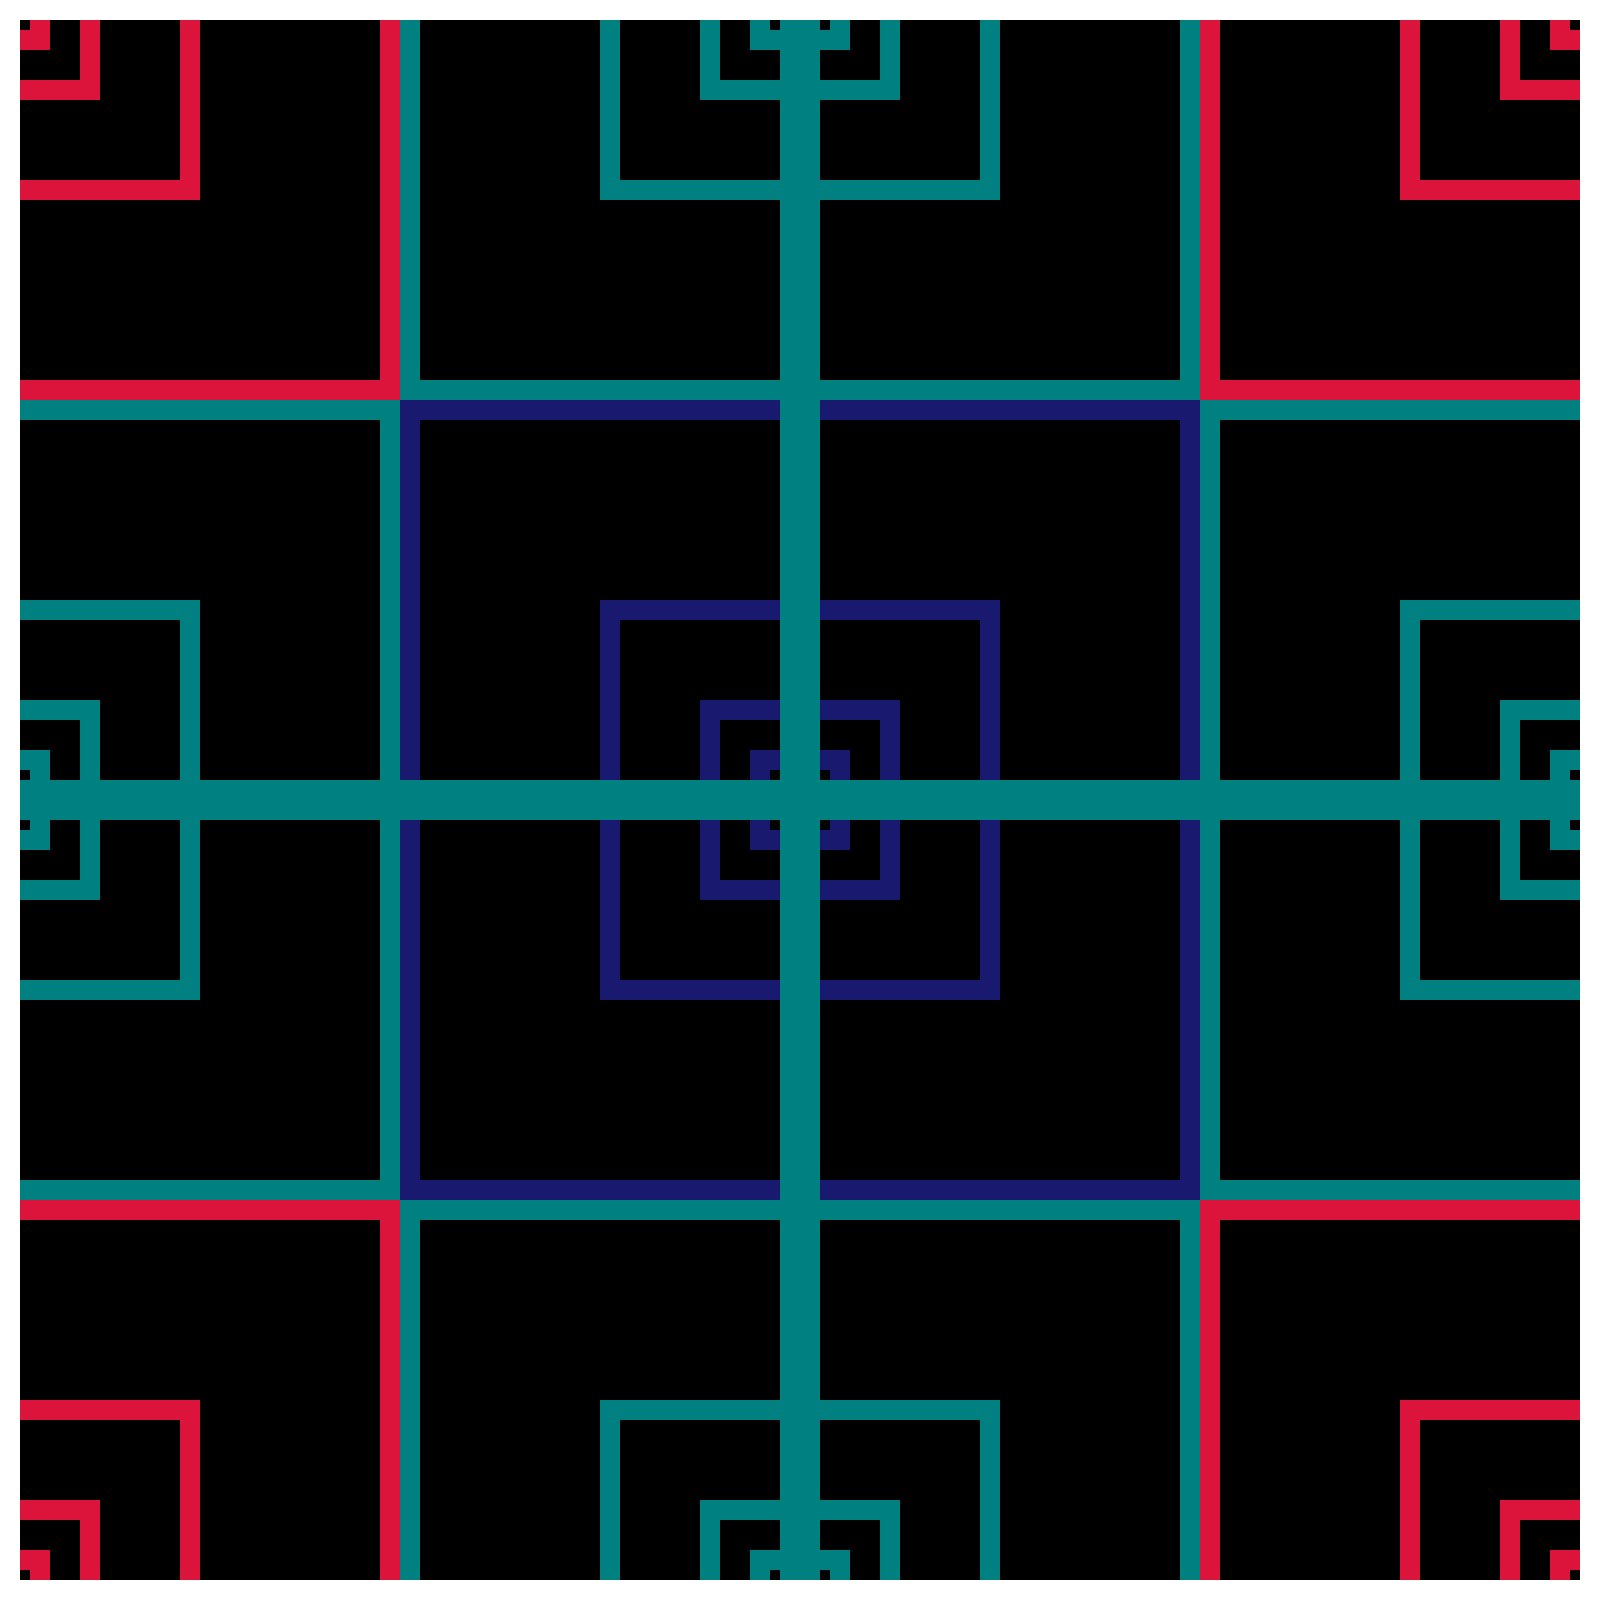
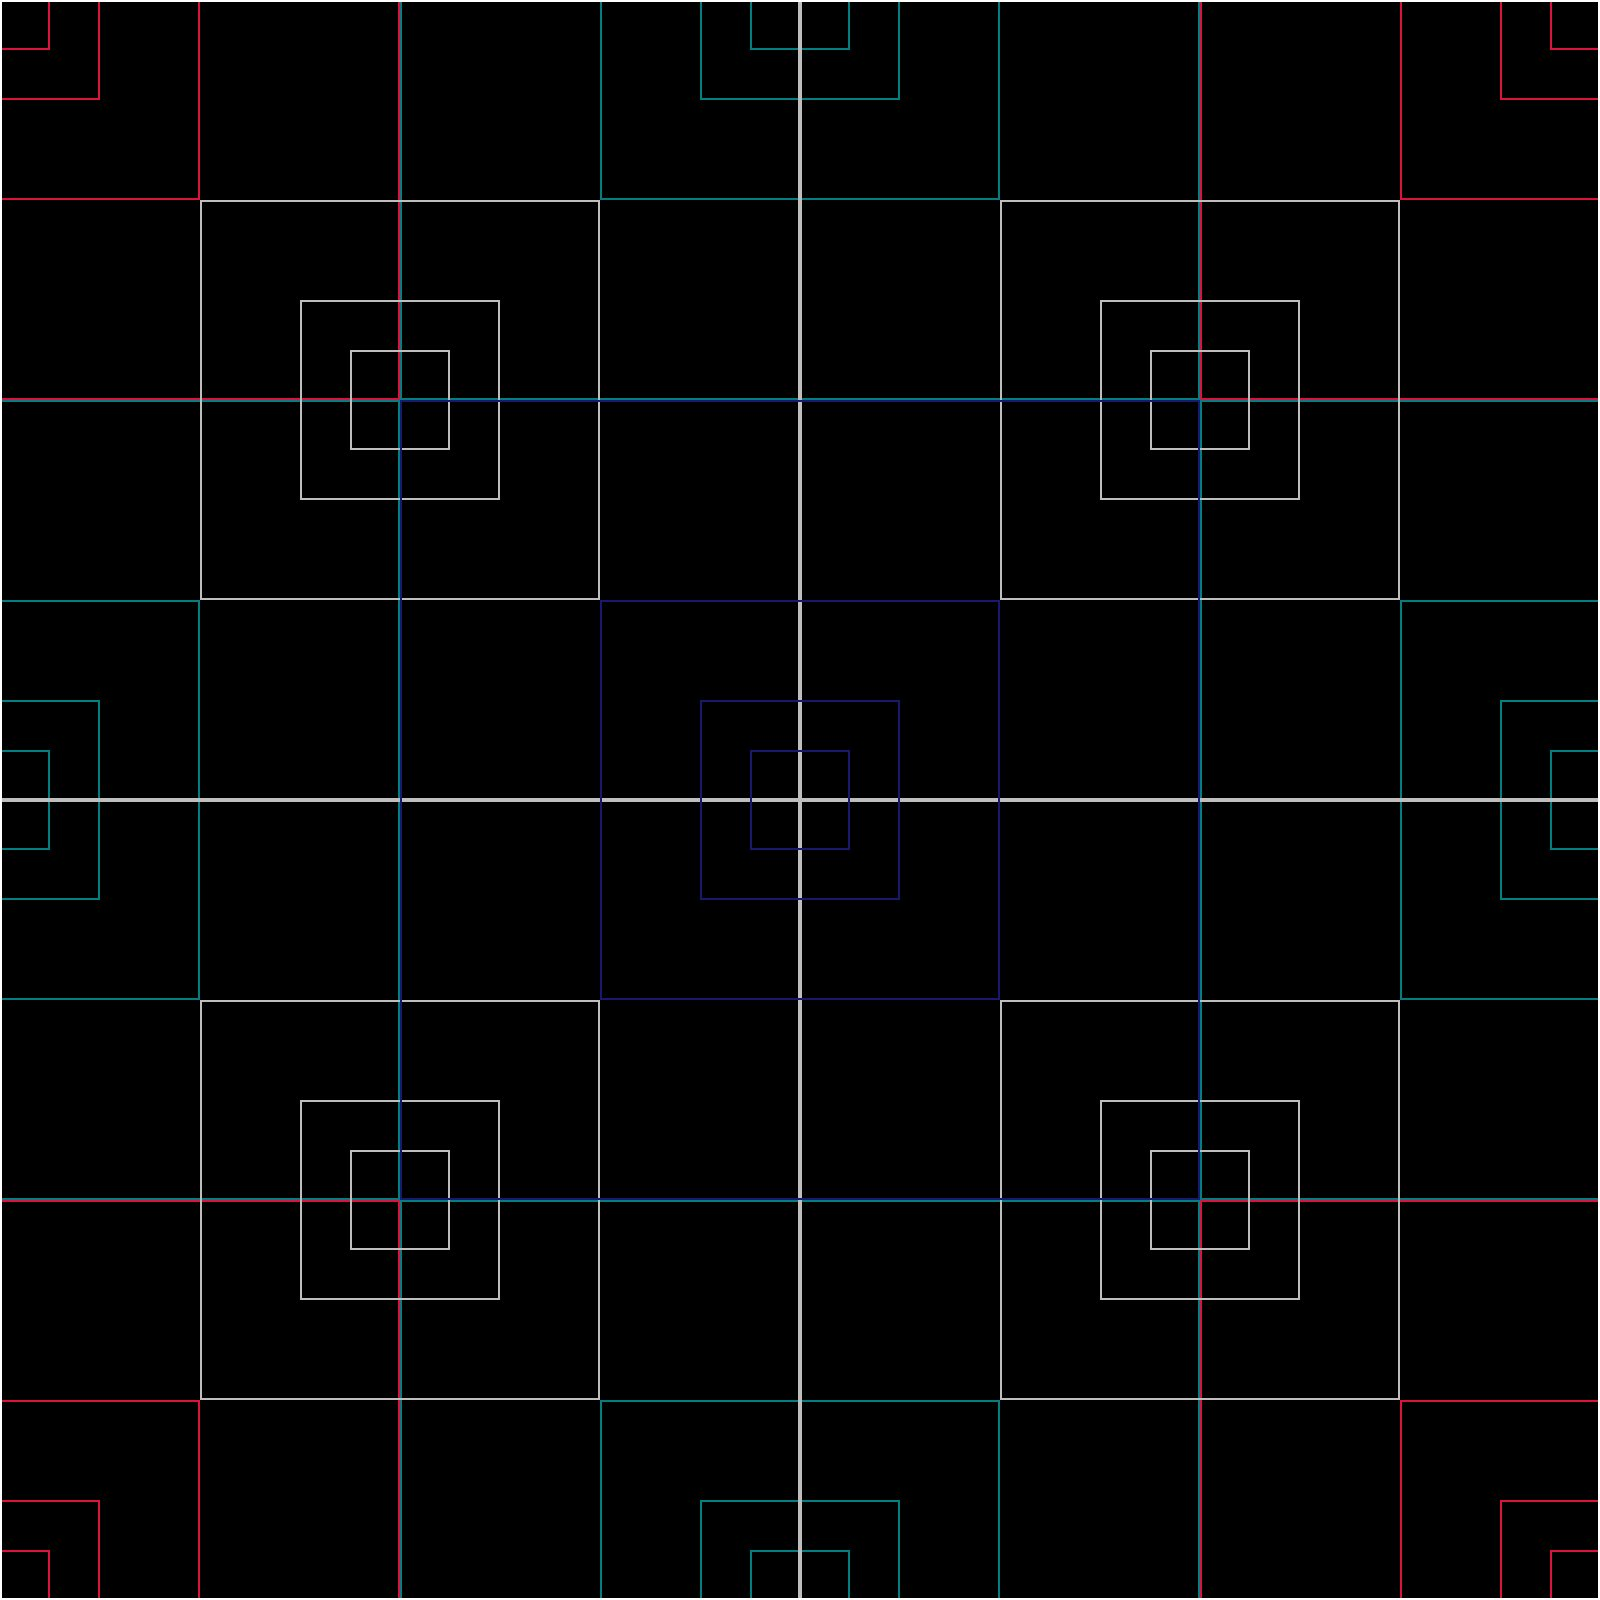
update new drawing

Changed region(s): [[0.0, 0.0, 1.0, 1.0]]

diff --git a/cc_pygame/pnger_63.py b/cc_pygame/pnger_63.py
@@ -9,52 +9,73 @@ def main() -> int:
     screen = pygame.display.set_mode(res)
     screen_color = "black"
     screen.fill(screen_color)
-    draw_quick_square(screen, "crimson", pygame.Vector2(0, 0), int(screen.get_width()), 0, 20)
-    draw_quick_square(screen, "crimson", pygame.Vector2(0, 0), int(screen.get_width() / 2), 0, 20)
-    draw_quick_square(screen, "crimson", pygame.Vector2(0, 0), int(screen.get_width() / 4), 0, 20)
-    draw_quick_square(screen, "crimson", pygame.Vector2(0, 0), int(screen.get_width() / 8), 0, 20)
-    draw_quick_square(screen, "crimson", pygame.Vector2(0, 0), int(screen.get_width() / 16), 0, 20)
-    draw_quick_square(screen, "crimson", pygame.Vector2(screen.get_width(), screen.get_height()), int(screen.get_width()), 0, 20)
-    draw_quick_square(screen, "crimson", pygame.Vector2(screen.get_width(), screen.get_height()), int(screen.get_width() / 2), 0, 20)
-    draw_quick_square(screen, "crimson", pygame.Vector2(screen.get_width(), screen.get_height()), int(screen.get_width() / 4), 0, 20)
-    draw_quick_square(screen, "crimson", pygame.Vector2(screen.get_width(), screen.get_height()), int(screen.get_width() / 8), 0, 20)
-    draw_quick_square(screen, "crimson", pygame.Vector2(screen.get_width(), screen.get_height()), int(screen.get_width() / 16), 0, 20)
-    draw_quick_square(screen, "crimson", pygame.Vector2(0, screen.get_height()), int(screen.get_width()), 0, 20)
-    draw_quick_square(screen, "crimson", pygame.Vector2(0, screen.get_height()), int(screen.get_width() / 2), 0, 20)
-    draw_quick_square(screen, "crimson", pygame.Vector2(0, screen.get_height()), int(screen.get_width() / 4), 0, 20)
-    draw_quick_square(screen, "crimson", pygame.Vector2(0, screen.get_height()), int(screen.get_width() / 8), 0, 20)
-    draw_quick_square(screen, "crimson", pygame.Vector2(0, screen.get_height()), int(screen.get_width() / 16), 0, 20)
-    draw_quick_square(screen, "crimson", pygame.Vector2(screen.get_width(), 0), int(screen.get_width()), 0, 20)
-    draw_quick_square(screen, "crimson", pygame.Vector2(screen.get_width(), 0), int(screen.get_width() / 2), 0, 20)
-    draw_quick_square(screen, "crimson", pygame.Vector2(screen.get_width(), 0), int(screen.get_width() / 4), 0, 20)
-    draw_quick_square(screen, "crimson", pygame.Vector2(screen.get_width(), 0), int(screen.get_width() / 8), 0, 20)
-    draw_quick_square(screen, "crimson", pygame.Vector2(screen.get_width(), 0), int(screen.get_width() / 16), 0, 20)
-    draw_quick_square(screen, "midnightblue", pygame.Vector2(screen.get_width() / 2, screen.get_height() / 2), int(screen.get_width()), 0, 20)
-    draw_quick_square(screen, "midnightblue", pygame.Vector2(screen.get_width() / 2, screen.get_height() / 2), int(screen.get_width() / 2), 0, 20)
-    draw_quick_square(screen, "midnightblue", pygame.Vector2(screen.get_width() / 2, screen.get_height() / 2), int(screen.get_width() / 4), 0, 20)
-    draw_quick_square(screen, "midnightblue", pygame.Vector2(screen.get_width() / 2, screen.get_height() / 2), int(screen.get_width() / 8), 0, 20)
-    draw_quick_square(screen, "midnightblue", pygame.Vector2(screen.get_width() / 2, screen.get_height() / 2), int(screen.get_width() / 16), 0, 20)
-    draw_quick_square(screen, "teal", pygame.Vector2(0, screen.get_height() / 2), int(screen.get_width()), 0, 20)
-    draw_quick_square(screen, "teal", pygame.Vector2(0, screen.get_height() / 2), int(screen.get_width() / 2), 0, 20)
-    draw_quick_square(screen, "teal", pygame.Vector2(0, screen.get_height() / 2), int(screen.get_width() / 4), 0, 20)
-    draw_quick_square(screen, "teal", pygame.Vector2(0, screen.get_height() / 2), int(screen.get_width() / 8), 0, 20)
-    draw_quick_square(screen, "teal", pygame.Vector2(0, screen.get_height() / 2), int(screen.get_width() / 16), 0, 20)
-    draw_quick_square(screen, "teal", pygame.Vector2(screen.get_width() / 2, 0), int(screen.get_width()), 0, 20)
-    draw_quick_square(screen, "teal", pygame.Vector2(screen.get_width() / 2, 0), int(screen.get_width() / 2), 0, 20)
-    draw_quick_square(screen, "teal", pygame.Vector2(screen.get_width() / 2, 0), int(screen.get_width() / 4), 0, 20)
-    draw_quick_square(screen, "teal", pygame.Vector2(screen.get_width() / 2, 0), int(screen.get_width() / 8), 0, 20)
-    draw_quick_square(screen, "teal", pygame.Vector2(screen.get_width() / 2, 0), int(screen.get_width() / 16), 0, 20)
-    draw_quick_square(screen, "teal", pygame.Vector2(screen.get_width() / 2, screen.get_height()), int(screen.get_width()), 0, 20)
-    draw_quick_square(screen, "teal", pygame.Vector2(screen.get_width() / 2, screen.get_height()), int(screen.get_width() / 2), 0, 20)
-    draw_quick_square(screen, "teal", pygame.Vector2(screen.get_width() / 2, screen.get_height()), int(screen.get_width() / 4), 0, 20)
-    draw_quick_square(screen, "teal", pygame.Vector2(screen.get_width() / 2, screen.get_height()), int(screen.get_width() / 8), 0, 20)
-    draw_quick_square(screen, "teal", pygame.Vector2(screen.get_width() / 2, screen.get_height()), int(screen.get_width() / 16), 0, 20)
-    draw_quick_square(screen, "teal", pygame.Vector2(screen.get_width(), screen.get_height() / 2), int(screen.get_width()), 0, 20)
-    draw_quick_square(screen, "teal", pygame.Vector2(screen.get_width(), screen.get_height() / 2), int(screen.get_width() / 2), 0, 20)
-    draw_quick_square(screen, "teal", pygame.Vector2(screen.get_width(), screen.get_height() / 2), int(screen.get_width() / 4), 0, 20)
-    draw_quick_square(screen, "teal", pygame.Vector2(screen.get_width(), screen.get_height() / 2), int(screen.get_width() / 8), 0, 20)
-    draw_quick_square(screen, "teal", pygame.Vector2(screen.get_width(), screen.get_height() / 2), int(screen.get_width() / 16), 0, 20)
-    draw_quick_square(screen, "white", pygame.Vector2(screen.get_width() / 2, screen.get_height() / 2), int(screen.get_width()), 0, 20)
+    edge_width = 2
+    # draw_quick_square(screen, "crimson", pygame.Vector2(0, 0), int(screen.get_width()), 0, edge_width)
+    draw_quick_square(screen, "crimson", pygame.Vector2(0, 0), int(screen.get_width() / 2), 0, edge_width)
+    draw_quick_square(screen, "crimson", pygame.Vector2(0, 0), int(screen.get_width() / 4), 0, edge_width)
+    draw_quick_square(screen, "crimson", pygame.Vector2(0, 0), int(screen.get_width() / 8), 0, edge_width)
+    draw_quick_square(screen, "crimson", pygame.Vector2(0, 0), int(screen.get_width() / 16), 0, edge_width)
+    # draw_quick_square(screen, "crimson", pygame.Vector2(screen.get_width(), screen.get_height()), int(screen.get_width()), 0, edge_width)
+    draw_quick_square(screen, "crimson", pygame.Vector2(screen.get_width(), screen.get_height()), int(screen.get_width() / 2), 0, edge_width)
+    draw_quick_square(screen, "crimson", pygame.Vector2(screen.get_width(), screen.get_height()), int(screen.get_width() / 4), 0, edge_width)
+    draw_quick_square(screen, "crimson", pygame.Vector2(screen.get_width(), screen.get_height()), int(screen.get_width() / 8), 0, edge_width)
+    draw_quick_square(screen, "crimson", pygame.Vector2(screen.get_width(), screen.get_height()), int(screen.get_width() / 16), 0, edge_width)
+    # draw_quick_square(screen, "crimson", pygame.Vector2(0, screen.get_height()), int(screen.get_width()), 0, edge_width)
+    draw_quick_square(screen, "crimson", pygame.Vector2(0, screen.get_height()), int(screen.get_width() / 2), 0, edge_width)
+    draw_quick_square(screen, "crimson", pygame.Vector2(0, screen.get_height()), int(screen.get_width() / 4), 0, edge_width)
+    draw_quick_square(screen, "crimson", pygame.Vector2(0, screen.get_height()), int(screen.get_width() / 8), 0, edge_width)
+    draw_quick_square(screen, "crimson", pygame.Vector2(0, screen.get_height()), int(screen.get_width() / 16), 0, edge_width)
+    # draw_quick_square(screen, "crimson", pygame.Vector2(screen.get_width(), 0), int(screen.get_width()), 0, edge_width)
+    draw_quick_square(screen, "crimson", pygame.Vector2(screen.get_width(), 0), int(screen.get_width() / 2), 0, edge_width)
+    draw_quick_square(screen, "crimson", pygame.Vector2(screen.get_width(), 0), int(screen.get_width() / 4), 0, edge_width)
+    draw_quick_square(screen, "crimson", pygame.Vector2(screen.get_width(), 0), int(screen.get_width() / 8), 0, edge_width)
+    draw_quick_square(screen, "crimson", pygame.Vector2(screen.get_width(), 0), int(screen.get_width() / 16), 0, edge_width)
+    # draw_quick_square(screen, "teal", pygame.Vector2(0, screen.get_height() / 2), int(screen.get_width()), 0, edge_width)
+    draw_quick_square(screen, "teal", pygame.Vector2(0, screen.get_height() / 2), int(screen.get_width() / 2), 0, edge_width)
+    draw_quick_square(screen, "teal", pygame.Vector2(0, screen.get_height() / 2), int(screen.get_width() / 4), 0, edge_width)
+    draw_quick_square(screen, "teal", pygame.Vector2(0, screen.get_height() / 2), int(screen.get_width() / 8), 0, edge_width)
+    draw_quick_square(screen, "teal", pygame.Vector2(0, screen.get_height() / 2), int(screen.get_width() / 16), 0, edge_width)
+    # draw_quick_square(screen, "teal", pygame.Vector2(screen.get_width() / 2, 0), int(screen.get_width()), 0, edge_width)
+    draw_quick_square(screen, "teal", pygame.Vector2(screen.get_width() / 2, 0), int(screen.get_width() / 2), 0, edge_width)
+    draw_quick_square(screen, "teal", pygame.Vector2(screen.get_width() / 2, 0), int(screen.get_width() / 4), 0, edge_width)
+    draw_quick_square(screen, "teal", pygame.Vector2(screen.get_width() / 2, 0), int(screen.get_width() / 8), 0, edge_width)
+    draw_quick_square(screen, "teal", pygame.Vector2(screen.get_width() / 2, 0), int(screen.get_width() / 16), 0, edge_width)
+    # draw_quick_square(screen, "teal", pygame.Vector2(screen.get_width() / 2, screen.get_height()), int(screen.get_width()), 0, edge_width)
+    draw_quick_square(screen, "teal", pygame.Vector2(screen.get_width() / 2, screen.get_height()), int(screen.get_width() / 2), 0, edge_width)
+    draw_quick_square(screen, "teal", pygame.Vector2(screen.get_width() / 2, screen.get_height()), int(screen.get_width() / 4), 0, edge_width)
+    draw_quick_square(screen, "teal", pygame.Vector2(screen.get_width() / 2, screen.get_height()), int(screen.get_width() / 8), 0, edge_width)
+    draw_quick_square(screen, "teal", pygame.Vector2(screen.get_width() / 2, screen.get_height()), int(screen.get_width() / 16), 0, edge_width)
+    # draw_quick_square(screen, "teal", pygame.Vector2(screen.get_width(), screen.get_height() / 2), int(screen.get_width()), 0, edge_width)
+    draw_quick_square(screen, "teal", pygame.Vector2(screen.get_width(), screen.get_height() / 2), int(screen.get_width() / 2), 0, edge_width)
+    draw_quick_square(screen, "teal", pygame.Vector2(screen.get_width(), screen.get_height() / 2), int(screen.get_width() / 4), 0, edge_width)
+    draw_quick_square(screen, "teal", pygame.Vector2(screen.get_width(), screen.get_height() / 2), int(screen.get_width() / 8), 0, edge_width)
+    draw_quick_square(screen, "teal", pygame.Vector2(screen.get_width(), screen.get_height() / 2), int(screen.get_width() / 16), 0, edge_width)
+    # draw_quick_square(screen, "grey", pygame.Vector2(screen.get_width() / 4, screen.get_height() / 4), int(screen.get_width()), 0, edge_width)
+    draw_quick_square(screen, "grey", pygame.Vector2(screen.get_width() / 4, screen.get_height() / 4), int(screen.get_width() / 2), 0, edge_width)
+    draw_quick_square(screen, "grey", pygame.Vector2(screen.get_width() / 4, screen.get_height() / 4), int(screen.get_width() / 4), 0, edge_width)
+    draw_quick_square(screen, "grey", pygame.Vector2(screen.get_width() / 4, screen.get_height() / 4), int(screen.get_width() / 8), 0, edge_width)
+    draw_quick_square(screen, "grey", pygame.Vector2(screen.get_width() / 4, screen.get_height() / 4), int(screen.get_width() / 16), 0, edge_width)
+    # draw_quick_square(screen, "grey", pygame.Vector2(screen.get_width() / 4, 3* screen.get_height() / 4), int(screen.get_width()), 0, edge_width)
+    draw_quick_square(screen, "grey", pygame.Vector2(screen.get_width() / 4, 3* screen.get_height() / 4), int(screen.get_width() / 2), 0, edge_width)
+    draw_quick_square(screen, "grey", pygame.Vector2(screen.get_width() / 4, 3* screen.get_height() / 4), int(screen.get_width() / 4), 0, edge_width)
+    draw_quick_square(screen, "grey", pygame.Vector2(screen.get_width() / 4, 3* screen.get_height() / 4), int(screen.get_width() / 8), 0, edge_width)
+    draw_quick_square(screen, "grey", pygame.Vector2(screen.get_width() / 4, 3* screen.get_height() / 4), int(screen.get_width() / 16), 0, edge_width)
+    # draw_quick_square(screen, "grey", pygame.Vector2(3* screen.get_width() / 4, screen.get_height() / 4), int(screen.get_width()), 0, edge_width)
+    draw_quick_square(screen, "grey", pygame.Vector2(3* screen.get_width() / 4, screen.get_height() / 4), int(screen.get_width() / 2), 0, edge_width)
+    draw_quick_square(screen, "grey", pygame.Vector2(3* screen.get_width() / 4, screen.get_height() / 4), int(screen.get_width() / 4), 0, edge_width)
+    draw_quick_square(screen, "grey", pygame.Vector2(3* screen.get_width() / 4, screen.get_height() / 4), int(screen.get_width() / 8), 0, edge_width)
+    draw_quick_square(screen, "grey", pygame.Vector2(3* screen.get_width() / 4, screen.get_height() / 4), int(screen.get_width() / 16), 0, edge_width)
+    # draw_quick_square(screen, "grey", pygame.Vector2(3* screen.get_width() / 4, 3* screen.get_height() / 4), int(screen.get_width()), 0, edge_width)
+    draw_quick_square(screen, "grey", pygame.Vector2(3* screen.get_width() / 4, 3* screen.get_height() / 4), int(screen.get_width() / 2), 0, edge_width)
+    draw_quick_square(screen, "grey", pygame.Vector2(3* screen.get_width() / 4, 3* screen.get_height() / 4), int(screen.get_width() / 4), 0, edge_width)
+    draw_quick_square(screen, "grey", pygame.Vector2(3* screen.get_width() / 4, 3* screen.get_height() / 4), int(screen.get_width() / 8), 0, edge_width)
+    draw_quick_square(screen, "grey", pygame.Vector2(3* screen.get_width() / 4, 3* screen.get_height() / 4), int(screen.get_width() / 16), 0, edge_width)
+    # draw_quick_square(screen, "midnightblue", pygame.Vector2(screen.get_width() / 2, screen.get_height() / 2), int(screen.get_width()), 0, edge_width)
+    draw_quick_square(screen, "midnightblue", pygame.Vector2(screen.get_width() / 2, screen.get_height() / 2), int(screen.get_width() / 2), 0, edge_width)
+    draw_quick_square(screen, "midnightblue", pygame.Vector2(screen.get_width() / 2, screen.get_height() / 2), int(screen.get_width() / 4), 0, edge_width)
+    draw_quick_square(screen, "midnightblue", pygame.Vector2(screen.get_width() / 2, screen.get_height() / 2), int(screen.get_width() / 8), 0, edge_width)
+    draw_quick_square(screen, "midnightblue", pygame.Vector2(screen.get_width() / 2, screen.get_height() / 2), int(screen.get_width() / 16), 0, edge_width)
+    draw_quick_square(screen, "white", pygame.Vector2(screen.get_width() / 2, screen.get_height() / 2), int(screen.get_width()), 0, edge_width)
     pygame.image.save(screen, 'cc_pygame/gen/jpger_63.jpg')
     pygame.quit()
     return 0

diff --git a/README.md b/README.md
@@ -126,3 +126,6 @@ a repo where i'm learning creative coding
 ![gen61](cc_pygame/gen/jpger_61.jpg)
 
 ![gen62](cc_pygame/gen/jpger_62.jpg)
+
+![gen63](cc_pygame/gen/jpger_63.jpg)
+
